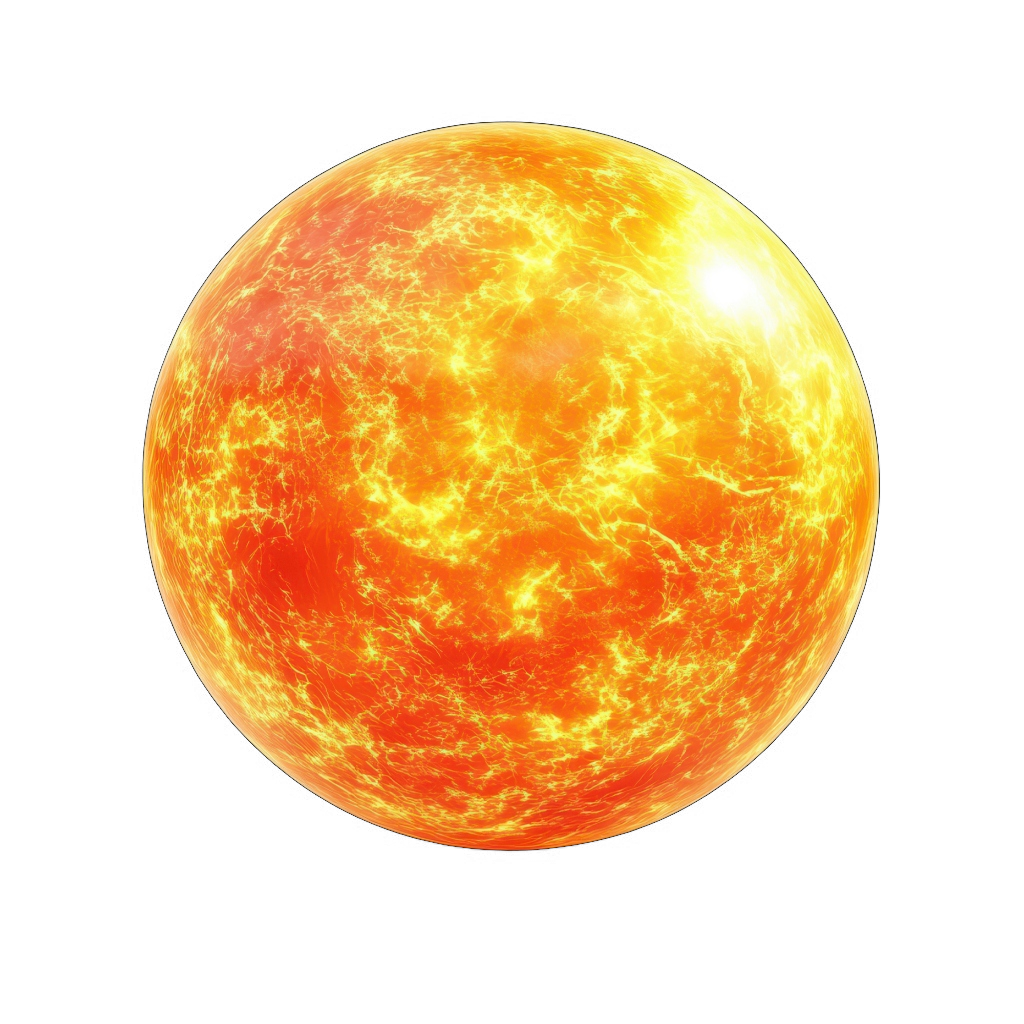
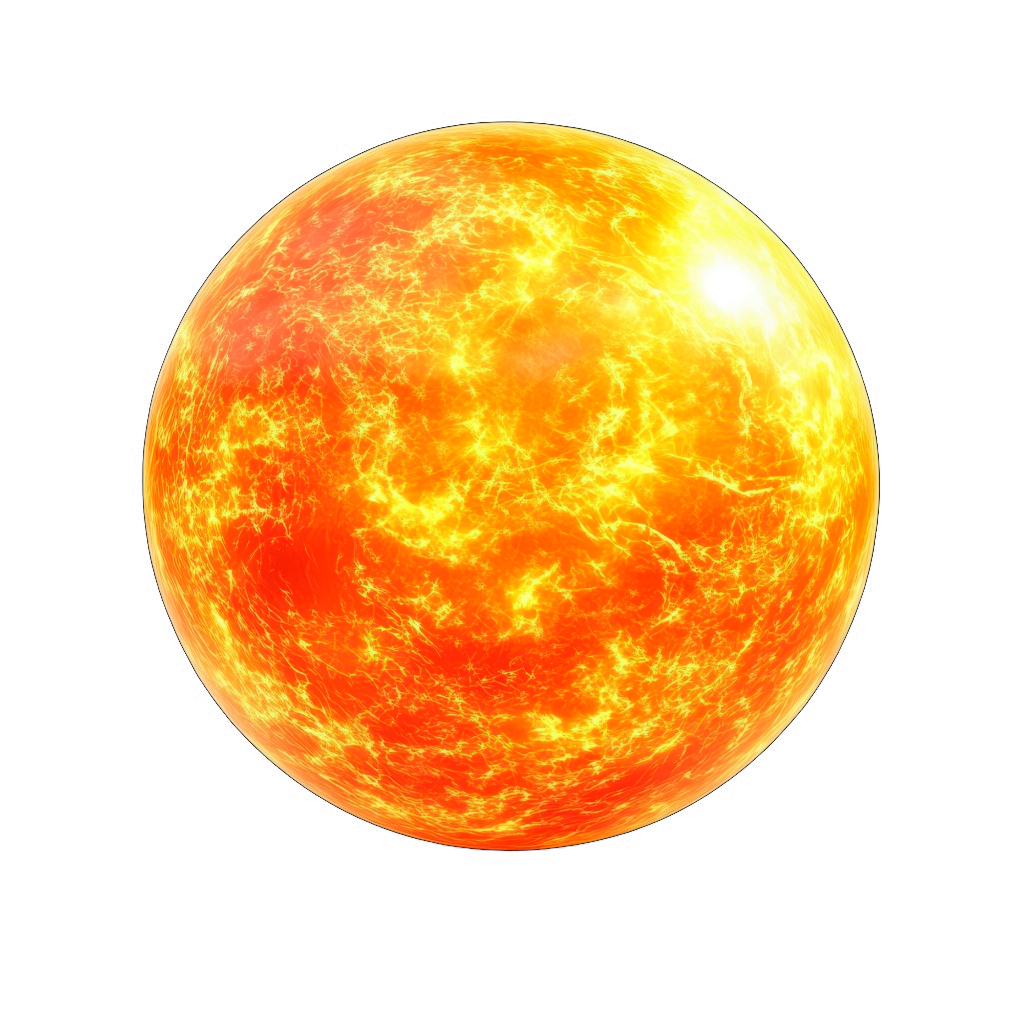
Enhance Sun to large natural orange, enlarge realistic planets, orbit around top and bottom of Sun, and fix Saturn ring wobble

diff --git a/basistha-frontend/src/components/SolarHeroCanvas.tsx b/basistha-frontend/src/components/SolarHeroCanvas.tsx
@@ -31,102 +31,43 @@ export function SolarHeroCanvas({ onExploreClick }: SolarHeroCanvasProps) {
     renderer.setSize(container.clientWidth, container.clientHeight);
     renderer.setPixelRatio(Math.min(window.devicePixelRatio, 2));
     renderer.toneMapping = THREE.ACESFilmicToneMapping;
-    renderer.toneMappingExposure = 1.2;
+    renderer.toneMappingExposure = 1.05;
     container.appendChild(renderer.domElement);
 
-    // 3. Texture Loader for User Photorealistic Sun
+    // 3. Texture Loader for High-Definition Celestial Textures
     const textureLoader = new THREE.TextureLoader();
     const sunRealTexture = textureLoader.load("/sun-real.png");
+    const earthTexture = textureLoader.load("/textures/earth.jpg");
+    const jupiterTexture = textureLoader.load("/textures/jupiter.jpg");
+    const saturnTexture = textureLoader.load("/textures/saturn.jpg");
+    const saturnRingTexture = textureLoader.load("/textures/saturn-ring.png");
+    const marsTexture = textureLoader.load("/textures/mars.jpg");
+    const venusTexture = textureLoader.load("/textures/venus.jpg");
+    const mercuryTexture = textureLoader.load("/textures/mercury.jpg");
+    const uranusTexture = textureLoader.load("/textures/uranus.jpg");
+    const neptuneTexture = textureLoader.load("/textures/neptune.jpg");
 
-    // Procedural Texture Generator Helpers for Planets
-    const createTexture = (painter: (ctx: CanvasRenderingContext2D, w: number, h: number) => void, w = 512, h = 256) => {
-      const canvas = document.createElement("canvas");
-      canvas.width = w;
-      canvas.height = h;
-      const ctx = canvas.getContext("2d");
-      if (ctx) {
-        painter(ctx, w, h);
-      }
-      const texture = new THREE.CanvasTexture(canvas);
-      texture.wrapS = THREE.RepeatWrapping;
-      texture.wrapT = THREE.ClampToEdgeWrapping;
-      return texture;
-    };
-
-    // Soft feathered Corona Glow Texture (No solid geometric ring)
+    // Soft feathered Corona Glow Texture (No hard geometric bands)
     const createSoftCoronaTexture = () => {
       const canvas = document.createElement("canvas");
       canvas.width = 512;
       canvas.height = 512;
       const ctx = canvas.getContext("2d");
       if (ctx) {
-        // Tight, gentle radial gradient fading smoothly to 0% opacity
-        const grad = ctx.createRadialGradient(256, 256, 175, 256, 256, 252);
-        grad.addColorStop(0, "rgba(255, 190, 40, 0.55)");
-        grad.addColorStop(0.25, "rgba(255, 135, 20, 0.28)");
-        grad.addColorStop(0.65, "rgba(255, 80, 10, 0.08)");
-        grad.addColorStop(1, "rgba(255, 50, 0, 0)");
+        // Tight, smooth radial gradient closely hugging the Sun rim
+        const grad = ctx.createRadialGradient(256, 256, 175, 256, 256, 245);
+        grad.addColorStop(0, "rgba(255, 110, 10, 0.50)");
+        grad.addColorStop(0.25, "rgba(255, 80, 0, 0.22)");
+        grad.addColorStop(0.65, "rgba(240, 60, 0, 0.06)");
+        grad.addColorStop(1, "rgba(220, 40, 0, 0)");
         ctx.fillStyle = grad;
         ctx.fillRect(0, 0, 512, 512);
       }
-      const texture = new THREE.CanvasTexture(canvas);
-      return texture;
+      return new THREE.CanvasTexture(canvas);
     };
 
-    // Earth Texture (Blue oceans, vibrant continents, swirling clouds)
-    const earthTexture = createTexture((ctx, w, h) => {
-      ctx.fillStyle = "#1d4ed8"; // Rich blue ocean
-      ctx.fillRect(0, 0, w, h);
-      ctx.fillStyle = "#15803d"; // Green continents
-      for (let i = 0; i < 48; i++) {
-        ctx.beginPath();
-        ctx.arc(Math.random() * w, Math.random() * h, Math.random() * 38 + 14, 0, Math.PI * 2);
-        ctx.fill();
-      }
-      ctx.fillStyle = "rgba(255, 255, 255, 0.5)"; // Atmospheric cloud bands
-      for (let i = 0; i < 70; i++) {
-        ctx.beginPath();
-        ctx.ellipse(Math.random() * w, Math.random() * h, Math.random() * 45 + 15, Math.random() * 10 + 3, Math.random() * Math.PI, 0, Math.PI * 2);
-        ctx.fill();
-      }
-    });
-
-    // Jupiter Texture (Distinct atmospheric stripes & Great Red Spot)
-    const jupiterTexture = createTexture((ctx, w, h) => {
-      const colors = ["#b45309", "#fef3c7", "#d97706", "#fde68a", "#92400e", "#fffbeb", "#78350f", "#fef3c7"];
-      const bandHeight = h / colors.length;
-      colors.forEach((c, i) => {
-        ctx.fillStyle = c;
-        ctx.fillRect(0, i * bandHeight, w, bandHeight);
-      });
-      // Great Red Spot
-      ctx.fillStyle = "#dc2626";
-      ctx.beginPath();
-      ctx.ellipse(w * 0.62, h * 0.65, 30, 16, 0, 0, Math.PI * 2);
-      ctx.fill();
-    });
-
-    // Saturn Ring Texture
-    const ringCanvas = document.createElement("canvas");
-    ringCanvas.width = 512;
-    ringCanvas.height = 64;
-    const rCtx = ringCanvas.getContext("2d");
-    if (rCtx) {
-      const rGrad = rCtx.createLinearGradient(0, 0, 512, 0);
-      rGrad.addColorStop(0, "rgba(254, 243, 199, 0)");
-      rGrad.addColorStop(0.12, "rgba(251, 191, 36, 0.75)");
-      rGrad.addColorStop(0.48, "rgba(217, 119, 6, 0.95)");
-      rGrad.addColorStop(0.55, "rgba(0, 0, 0, 0.05)"); // Cassini Division
-      rGrad.addColorStop(0.62, "rgba(251, 191, 36, 0.88)");
-      rGrad.addColorStop(0.95, "rgba(245, 158, 11, 0.6)");
-      rGrad.addColorStop(1, "rgba(217, 119, 6, 0)");
-      rCtx.fillStyle = rGrad;
-      rCtx.fillRect(0, 0, 512, 64);
-    }
-    const ringTexture = new THREE.CanvasTexture(ringCanvas);
-
-    // 4. Starfield & Cosmic Dust
-    const starCount = 1200;
+    // 4. Subtle Foreground Twinkle Starfield
+    const starCount = 1100;
     const starGeom = new THREE.BufferGeometry();
     const starPos = new Float32Array(starCount * 3);
     const starCols = new Float32Array(starCount * 3);
@@ -159,26 +100,27 @@ export function SolarHeroCanvas({ onExploreClick }: SolarHeroCanvasProps) {
     const starPoints = new THREE.Points(starGeom, starMaterial);
     scene.add(starPoints);
 
-    // 5. The User's Photorealistic Blazing Sun (Positioned on the Far Left Edge)
+    // 5. The Massive Blazing Sun with Natural Rich Fiery Orange Color
     const sunGroup = new THREE.Group();
-    const sunX = -17.0;
+    // Positioned on far left so its right radiant hemisphere towers across the screen
+    const sunX = -18.5;
     const sunY = 0;
     sunGroup.position.set(sunX, sunY, 0);
 
-    // Main Sun Disk with User's Uploaded Sun Photo
-    const sunGeom = new THREE.PlaneGeometry(18.5, 18.5);
+    // Sun Disk: Increased size (25.5 x 25.5), using NormalBlending to retain authentic fiery orange color
+    const sunGeom = new THREE.PlaneGeometry(25.5, 25.5);
     const sunMat = new THREE.MeshBasicMaterial({
       map: sunRealTexture,
       transparent: true,
-      blending: THREE.AdditiveBlending,
+      blending: THREE.NormalBlending,
       side: THREE.DoubleSide
     });
     const sunMesh = new THREE.Mesh(sunGeom, sunMat);
     sunGroup.add(sunMesh);
 
-    // Small, tight, natural feathered coronal glow (No giant solid rings)
+    // Tight feathered corona halo closely embracing the Sun's perimeter
     const coronaTexture = createSoftCoronaTexture();
-    const coronaGeom = new THREE.PlaneGeometry(21.0, 21.0);
+    const coronaGeom = new THREE.PlaneGeometry(28.5, 28.5);
     const coronaMat = new THREE.MeshBasicMaterial({
       map: coronaTexture,
       transparent: true,
@@ -192,22 +134,22 @@ export function SolarHeroCanvas({ onExploreClick }: SolarHeroCanvasProps) {
 
     scene.add(sunGroup);
 
-    // Directional Solar Light & Ambient Illumination
-    const sunPointLight = new THREE.PointLight(0xffeedd, 3.2, 100, 0.4);
-    sunPointLight.position.set(sunX + 4, sunY, 3);
+    // Solar Lighting Setup: Strong warm point light from Sun + Rich ambient starlight
+    const sunPointLight = new THREE.PointLight(0xffeedd, 3.5, 120, 0.35);
+    sunPointLight.position.set(sunX + 6, sunY, 5);
     scene.add(sunPointLight);
 
-    // Stronger ambient lighting so dark side of planets is softly illuminated by starlight
-    const ambientLight = new THREE.AmbientLight(0x7c8ba1, 1.9);
+    const ambientLight = new THREE.AmbientLight(0x8ca0ba, 2.2);
     scene.add(ambientLight);
 
-    // 6. The 8 Planets (Revolving in Orbits around the Sun, Spinning on Own Axis, NO Orbit Lines)
+    // 6. The 8 Planets (Larger Sizes, Realistic Textures, Orbiting AROUND the Sun via Top/Bottom, No Orbit Lines)
     interface PlanetNode {
       mesh: THREE.Mesh;
       group: THREE.Group;
       radiusX: number;
       radiusY: number;
       radiusZ: number;
+      orbitTilt: number;
       angle: number;
       orbitSpeed: number;
       rotSpeed: number;
@@ -217,61 +159,80 @@ export function SolarHeroCanvas({ onExploreClick }: SolarHeroCanvasProps) {
       isRevealed: boolean;
     }
 
-    // Planetary Orbits centered around the Sun (sunX = -17.0, sunY = 0)
-    // Initial angles staggered so they start distributed across the field, then visibly revolve along their paths
+    // Larger planet sizes and realistic orbits configured to loop around top and bottom of Sun
     const planetsConfig = [
-      { name: "Mercury", size: 0.36, color: 0xb5a796, rx: 8.5,  ry: 5.2,  rz: 1.8, orbitSpeed: 0.016, rotSpeed: 0.024, initialAngle: 0.04, revealTime: 0.25 },
-      { name: "Venus",   size: 0.58, color: 0xeab308, rx: 11.2, ry: 6.8,  rz: 2.2, orbitSpeed: 0.012, rotSpeed: 0.018, initialAngle: 0.16, revealTime: 0.60 },
-      { name: "Earth",   size: 0.68, color: 0x38bdf8, rx: 14.0, ry: 8.4,  rz: 2.8, orbitSpeed: 0.009, rotSpeed: 0.020, initialAngle: 0.28, revealTime: 0.95, texture: earthTexture },
-      { name: "Mars",    size: 0.48, color: 0xef4444, rx: 16.8, ry: 10.0, rz: 3.2, orbitSpeed: 0.0075, rotSpeed: 0.016, initialAngle: 0.40, revealTime: 1.30 },
-      { name: "Jupiter", size: 1.45, color: 0xf59e0b, rx: 20.2, ry: 11.8, rz: 3.8, orbitSpeed: 0.0055, rotSpeed: 0.014, initialAngle: 0.52, revealTime: 1.65, texture: jupiterTexture },
-      { name: "Saturn",  size: 1.15, color: 0xfde68a, rx: 24.2, ry: 13.6, rz: 4.2, orbitSpeed: 0.0042, rotSpeed: 0.012, initialAngle: 0.64, revealTime: 2.00, hasRing: true },
-      { name: "Uranus",  size: 0.86, color: 0x38bdf8, rx: 28.2, ry: 15.4, rz: 4.8, orbitSpeed: 0.0032, rotSpeed: 0.010, initialAngle: 0.76, revealTime: 2.35 },
-      { name: "Neptune", size: 0.82, color: 0x2563eb, rx: 32.2, ry: 17.2, rz: 5.2, orbitSpeed: 0.0024, rotSpeed: 0.009, initialAngle: 0.88, revealTime: 2.70 }
+      { name: "Mercury", size: 0.52, color: 0xc4b5a5, texture: mercuryTexture, rx: 9.5,  ry: 6.2,  rz: 2.2, orbitSpeed: 0.016, rotSpeed: 0.024, initialAngle: 0.05, revealTime: 0.25 },
+      { name: "Venus",   size: 0.82, color: 0xf59e0b, texture: venusTexture,   rx: 12.2, ry: 7.8,  rz: 2.6, orbitSpeed: 0.012, rotSpeed: 0.018, initialAngle: 0.16, revealTime: 0.60 },
+      { name: "Earth",   size: 0.98, color: 0x38bdf8, texture: earthTexture,   rx: 15.2, ry: 9.5,  rz: 3.2, orbitSpeed: 0.009, rotSpeed: 0.020, initialAngle: 0.28, revealTime: 0.95 },
+      { name: "Mars",    size: 0.68, color: 0xef4444, texture: marsTexture,    rx: 18.2, ry: 11.2, rz: 3.6, orbitSpeed: 0.0075, rotSpeed: 0.016, initialAngle: 0.40, revealTime: 1.30 },
+      { name: "Jupiter", size: 2.15, color: 0xf59e0b, texture: jupiterTexture, rx: 22.0, ry: 13.2, rz: 4.4, orbitSpeed: 0.0055, rotSpeed: 0.014, initialAngle: 0.52, revealTime: 1.65 },
+      { name: "Saturn",  size: 1.70, color: 0xfde68a, texture: saturnTexture,  rx: 26.5, ry: 15.2, rz: 5.0, orbitSpeed: 0.0042, rotSpeed: 0.012, initialAngle: 0.64, revealTime: 2.00, hasRing: true },
+      { name: "Uranus",  size: 1.15, color: 0x38bdf8, texture: uranusTexture,  rx: 30.5, ry: 17.2, rz: 5.5, orbitSpeed: 0.0032, rotSpeed: 0.010, initialAngle: 0.76, revealTime: 2.35 },
+      { name: "Neptune", size: 1.10, color: 0x2563eb, texture: neptuneTexture, rx: 34.5, ry: 19.2, rz: 6.0, orbitSpeed: 0.0024, rotSpeed: 0.009, initialAngle: 0.88, revealTime: 2.70 }
     ];
 
     const planetNodes: PlanetNode[] = [];
     const planetsContainer = new THREE.Group();
 
+    // Orbital plane tilt: -16 degrees to make orbits naturally sweep across top-left, center, and bottom
+    const globalOrbitTilt = -0.28;
+
     planetsConfig.forEach((cfg) => {
       const pGroup = new THREE.Group();
 
-      // Start initially at starting orbit angle
-      const initX = sunX + cfg.rx * Math.cos(cfg.initialAngle);
-      const initY = sunY + cfg.ry * Math.sin(cfg.initialAngle);
-      const initZ = cfg.rz * Math.sin(cfg.initialAngle);
+      // Calculate initial position on tilted orbital ellipse
+      const cosA = Math.cos(cfg.initialAngle);
+      const sinA = Math.sin(cfg.initialAngle);
+      const localX = cfg.rx * cosA;
+      const localY = cfg.ry * sinA;
+
+      const initX = sunX + localX * Math.cos(globalOrbitTilt) - localY * Math.sin(globalOrbitTilt);
+      const initY = sunY + localX * Math.sin(globalOrbitTilt) + localY * Math.cos(globalOrbitTilt);
+      const initZ = cfg.rz * sinA;
       pGroup.position.set(initX, initY, initZ);
 
-      // Start initially scaled down to 0
+      // Start initially scaled to 0 for sequential reveal
       pGroup.scale.set(0.001, 0.001, 0.001);
 
-      const pGeom = new THREE.SphereGeometry(cfg.size, 32, 32);
+      // Planet Sphere Mesh
+      const pGeom = new THREE.SphereGeometry(cfg.size, 36, 36);
       const pMat = new THREE.MeshStandardMaterial({
         color: cfg.color,
         map: cfg.texture || null,
-        roughness: 0.38,
+        roughness: 0.35,
         metalness: 0.08,
         transparent: true,
         opacity: 0
       });
       const pMesh = new THREE.Mesh(pGeom, pMat);
 
-      // Saturn's Ring
+      // Saturn: Stable, wobble-free concentric ring in Saturn's equatorial plane
       if (cfg.hasRing) {
-        const ringGeom = new THREE.RingGeometry(cfg.size * 1.35, cfg.size * 2.45, 64);
+        // Sub-group for Saturn to isolate planet spin from the ring tilt
+        const saturnSubGroup = new THREE.Group();
+        // Saturn's authentic 26.7 degree axial tilt
+        saturnSubGroup.rotation.z = THREE.MathUtils.degToRad(26.7);
+        saturnSubGroup.rotation.x = THREE.MathUtils.degToRad(12);
+
+        saturnSubGroup.add(pMesh);
+
+        // Ring Geometry: perfectly centered, flat in equatorial plane
+        const ringGeom = new THREE.RingGeometry(cfg.size * 1.35, cfg.size * 2.55, 96);
         const ringMat = new THREE.MeshBasicMaterial({
-          map: ringTexture,
+          map: saturnRingTexture,
           side: THREE.DoubleSide,
           transparent: true,
-          opacity: 0.88
+          opacity: 0.92
         });
         const saturnRing = new THREE.Mesh(ringGeom, ringMat);
-        saturnRing.rotation.x = Math.PI / 2.3;
-        saturnRing.rotation.y = Math.PI / 7;
-        pMesh.add(saturnRing);
+        saturnRing.rotation.x = Math.PI / 2; // Flat in equatorial plane of tilted sub-group
+        saturnSubGroup.add(saturnRing);
+
+        pGroup.add(saturnSubGroup);
+      } else {
+        pGroup.add(pMesh);
       }
 
-      pGroup.add(pMesh);
       planetsContainer.add(pGroup);
 
       planetNodes.push({
@@ -280,8 +241,9 @@ export function SolarHeroCanvas({ onExploreClick }: SolarHeroCanvasProps) {
         radiusX: cfg.rx,
         radiusY: cfg.ry,
         radiusZ: cfg.rz,
+        orbitTilt: globalOrbitTilt,
         angle: cfg.initialAngle,
-        orbitSpeed: cfg.orbitSpeed * 0.55, // Clear, graceful orbital revolution speed
+        orbitSpeed: cfg.orbitSpeed * 0.48, // Balanced, clearly visible orbital revolution
         rotSpeed: cfg.rotSpeed,
         revealTime: cfg.revealTime,
         targetScale: 1.0,
@@ -313,7 +275,7 @@ export function SolarHeroCanvas({ onExploreClick }: SolarHeroCanvasProps) {
     };
     window.addEventListener("resize", handleResize);
 
-    // 9. Animation Loop (Revolving in Orbits + Axial Spin + Sequential Reveal)
+    // 9. Animation Loop (Active Orbiting Around Sun Limb, Axial Spin, Sequential Reveal)
     let animId: number;
     const clock = new THREE.Clock();
 
@@ -321,12 +283,12 @@ export function SolarHeroCanvas({ onExploreClick }: SolarHeroCanvasProps) {
       animId = requestAnimationFrame(animate);
       const elapsed = clock.getElapsedTime();
 
-      // Slow majestic rotation of Sun's surface
-      sunMesh.rotation.z += 0.0006;
-      coronaMesh.rotation.z -= 0.0007;
-      coronaMesh.scale.setScalar(1 + Math.sin(elapsed * 1.5) * 0.025);
+      // Sun slow churn & gentle corona breathing
+      sunMesh.rotation.z += 0.0005;
+      coronaMesh.rotation.z -= 0.0006;
+      coronaMesh.scale.setScalar(1 + Math.sin(elapsed * 1.5) * 0.02);
 
-      // Animate each planet: Sequential Reveal, Orbital Revolution, and Axial Spin
+      // Animate each planet
       planetNodes.forEach((p) => {
         // 1. Sequential Reveal
         if (elapsed >= p.revealTime) {
@@ -345,13 +307,19 @@ export function SolarHeroCanvas({ onExploreClick }: SolarHeroCanvasProps) {
           }
         }
 
-        // 2. Active Revolution in its Orbit around the Sun (sunX = -17.0, sunY = 0)
+        // 2. Active Orbital Revolution (curving around the top and bottom of the Sun)
         p.angle += p.orbitSpeed;
-        p.group.position.x = sunX + p.radiusX * Math.cos(p.angle);
-        p.group.position.y = sunY + p.radiusY * Math.sin(p.angle);
-        p.group.position.z = p.radiusZ * Math.sin(p.angle);
+        const cosA = Math.cos(p.angle);
+        const sinA = Math.sin(p.angle);
+        const localX = p.radiusX * cosA;
+        const localY = p.radiusY * sinA;
 
-        // 3. Continuous Axial Spin on its own axis
+        // Position along tilted orbital plane: wraps around top and bottom circumference of the Sun
+        p.group.position.x = sunX + localX * Math.cos(p.orbitTilt) - localY * Math.sin(p.orbitTilt);
+        p.group.position.y = sunY + localX * Math.sin(p.orbitTilt) + localY * Math.cos(p.orbitTilt);
+        p.group.position.z = p.radiusZ * sinA;
+
+        // 3. Continuous Axial Spin on its OWN axis (Saturn's sphere spins cleanly inside its stable ring)
         p.mesh.rotation.y += p.rotSpeed;
       });
 
@@ -359,8 +327,8 @@ export function SolarHeroCanvas({ onExploreClick }: SolarHeroCanvasProps) {
       starPoints.rotation.y += 0.0001;
 
       // Mouse Parallax Easing
-      camera.position.x += (mouseX * 0.7 - camera.position.x) * 0.03;
-      camera.position.y += (-mouseY * 0.4 - camera.position.y) * 0.03;
+      camera.position.x += (mouseX * 0.6 - camera.position.x) * 0.03;
+      camera.position.y += (-mouseY * 0.35 - camera.position.y) * 0.03;
       camera.lookAt(0, 0, 0);
 
       renderer.render(scene, camera);
@@ -404,7 +372,7 @@ export function SolarHeroCanvas({ onExploreClick }: SolarHeroCanvasProps) {
       {/* Subtle overlay for natural lighting and depth */}
       <div className="absolute inset-0 bg-slate-950/20 pointer-events-none z-0" />
 
-      {/* 1. Three.js Canvas Container (Sun on far left, planets orbiting in space) */}
+      {/* 1. Three.js Canvas Container (Massive Orange Sun on far left, realistic planets orbiting around it) */}
       <div
         ref={containerRef}
         className="absolute inset-0 w-full h-full pointer-events-none z-10"
